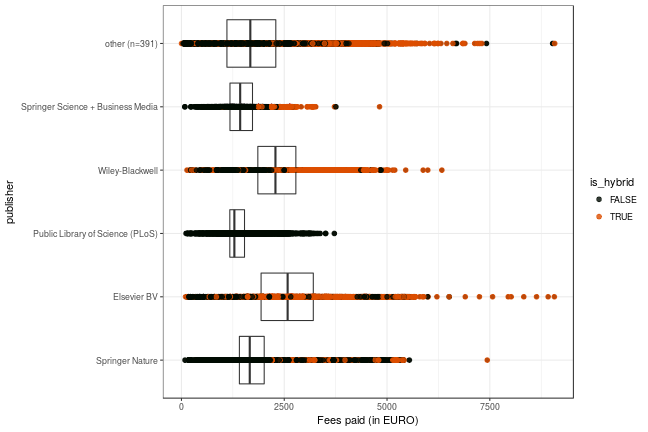
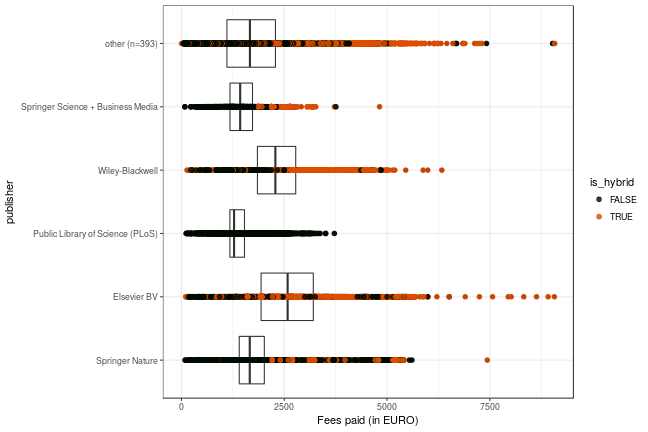
couperin part three

diff --git a/about.md b/about.md
@@ -137,16 +137,20 @@ The data content covers APCs as paid for by our central budget for the Max Planc
 
 - Chalmers University of Technology
 - Dalarna University College
+- University of Gothenburg
+- Borås University College
+- University College West
 - Karolinska Institutet
 - KTH Royal Institute of Technology
 - Linköping University
+- Linnaeus University
 - Luleå University of Technology
 - Lund University
-- Malmö University College
-- Stockholm University
+- Malmö University
+- Örebro University
 - Swedish University of Agricultural Sciences
+- Stockholm University
 - Umeå University
-- University of Gothenburg
 - Uppsala University
 
 ## Institutions from France
@@ -156,19 +160,20 @@ The [Couperin consortium](https://couperin.org) aggregates data on APC expenditu
 - Aix-Marseille Université
 - Université de Bordeaux
 - Université de Bourgogne
+- Centre national de la recherche scientifique (CNRS)
 - Hospices Civils de Lyon
 - Université Grenoble Alpes
 - Institut national de recherche en informatique et en automatique (INRIA)
 - Institut national de la santé et de la recherche médicale (INSERM)
-- Institut national polytechnique de Toulouse (INTP)
+- Institut national polytechnique de Toulouse (INPT)
 - Université Lille 1
 - Université Lille 2
+- Université de Lorraine
 - Université Nice-Sophia-Antipolis
 - Université de Poitiers
 - Université de Rennes 1
 - Université de Toulon
 - Université Pierre et Marie Curie (Paris VI)
-
 
 ## Participating Institutions from the United Kingdom:
 
@@ -247,13 +252,13 @@ Jisc Collections released data on APC payments made by UK higher education insti
 
 Information on both open access journal articles and open access publication of articles in toll-access journals ("hybrid") are provided.
 
-In total,  102 936 630 € for  54 290 articles were paid by the participating unviversities. Average  fee is 1 896.1 € and the median 1 697 €.
+In total,  103 974 244 € for  54 959 articles were paid by the participating unviversities. Average  fee is 1 891.9 € and the median 1 691 €.
 
 ### Open Access Journals
 
 
 
-At the moment, the dataset releases information on 31 923 articles in open access journals which charge publication fees. Total expenditure amounts to  47 421 887 €. Average  fee is 1 485.5 € and the median 1 410 €.
+At the moment, the dataset releases information on 32 504 articles in open access journals which charge publication fees. Total expenditure amounts to  48 270 968 €. Average  fee is 1 485.1 € and the median 1 408 €.
 
 View dataset on [GitHub](https://github.com/OpenAPC/openapc-de/blob/master/data/apc_de.csv).
 
@@ -261,7 +266,7 @@ View dataset on [GitHub](https://github.com/OpenAPC/openapc-de/blob/master/data/
 |                                                                | Articles| Fees paid in EURO| Mean Fee paid| Median|
 |:---------------------------------------------------------------|--------:|-----------------:|-------------:|------:|
 |Aberystwyth University                                          |        9|            18,176|         2,020|  1,569|
-|Aix-Marseille Université                                        |       63|            92,126|         1,462|  1,215|
+|Aix-Marseille Université                                        |       60|            85,791|         1,430|  1,215|
 |Akershus University Hospital                                    |       11|            15,680|         1,425|  1,290|
 |Aston University                                                |       24|            47,259|         1,969|  1,654|
 |Bamberg U                                                       |       50|            56,375|         1,127|  1,266|
@@ -275,6 +280,7 @@ View dataset on [GitHub](https://github.com/OpenAPC/openapc-de/blob/master/data/
 |Bremen U                                                        |      390|           552,016|         1,415|  1,345|
 |Cardiff University                                              |      169|           289,389|         1,712|  1,562|
 |Chalmers University of Technology                               |        6|             5,817|           970|  1,012|
+|CNRS                                                            |      568|           835,780|         1,471|  1,260|
 |Cranfield University                                            |       10|            14,348|         1,435|  1,530|
 |Dalarna University College                                      |       28|            39,181|         1,399|  1,667|
 |Dortmund TU                                                     |       56|            66,016|         1,179|  1,373|
@@ -284,10 +290,10 @@ View dataset on [GitHub](https://github.com/OpenAPC/openapc-de/blob/master/data/
 |Freiburg U                                                      |      623|           871,696|         1,399|  1,449|
 |Fridtjof Nansen Institute                                       |        4|             5,062|         1,265|  1,303|
 |FU Berlin                                                       |      294|           413,858|         1,408|  1,506|
-|FWF - Austrian Science Fund                                     |    1,389|         2,294,176|         1,652|  1,495|
+|FWF - Austrian Science Fund                                     |    1,391|         2,295,863|         1,651|  1,492|
 |FZJ - ZB                                                        |      397|           532,437|         1,341|  1,242|
 |GenØk - Centre for Biosafety                                    |        5|             5,295|         1,059|  1,109|
-|GFZ-Potsdam                                                     |      172|           225,908|         1,313|  1,224|
+|GFZ-Potsdam                                                     |      170|           224,765|         1,322|  1,231|
 |Giessen U                                                       |      415|           590,189|         1,422|  1,346|
 |GIGA                                                            |       NA|                NA|            NA|     NA|
 |Goettingen U                                                    |    1,086|         1,580,249|         1,455|  1,447|
@@ -303,14 +309,14 @@ View dataset on [GitHub](https://github.com/OpenAPC/openapc-de/blob/master/data/
 |INM - Leibniz-Institut für Neue Materialien                     |        5|             5,744|         1,149|  1,305|
 |Innlandet Hospital Trust                                        |        3|             5,174|         1,725|  1,917|
 |INRIA                                                           |       31|            46,138|         1,488|  1,288|
-|INSERM                                                          |      392|           644,693|         1,645|  1,298|
+|INSERM                                                          |      391|           643,505|         1,646|  1,300|
 |Institut national polytechnique de Toulouse                     |        3|             4,139|         1,380|  1,845|
 |Institute of Cancer Research                                    |       20|            43,133|         2,157|  1,673|
 |Institute of Marine Research                                    |       14|            20,153|         1,440|  1,404|
 |IPN                                                             |        4|             3,909|           977|    479|
 |IST Austria                                                     |       13|            30,578|         2,352|  1,632|
 |JGU Mainz                                                       |      318|           456,141|         1,434|  1,458|
-|Karolinska Institutet                                           |        7|             4,371|           624|    755|
+|Karolinska Institutet                                           |        8|             5,073|           634|    755|
 |Kassel U                                                        |       78|            85,210|         1,092|  1,136|
 |Keele University                                                |       19|            31,431|         1,654|  1,644|
 |King's College London                                           |      197|           398,725|         2,024|  1,588|
@@ -332,7 +338,7 @@ View dataset on [GitHub](https://github.com/OpenAPC/openapc-de/blob/master/data/
 |Milano U                                                        |      121|           185,356|         1,532|  1,495|
 |MLU Halle-Wittenberg                                            |       17|            36,874|         2,169|  2,142|
 |Molde University College                                        |        3|             1,876|           625|    584|
-|MPG                                                             |    3,675|         4,987,866|         1,357|  1,207|
+|MPG                                                             |    3,674|         4,987,088|         1,357|  1,207|
 |Muenchen LMU                                                    |      443|           594,905|         1,343|  1,404|
 |Münster U                                                       |      382|           468,717|         1,227|  1,200|
 |Nansen Environmental and Remote Sensing Center                  |        6|             5,298|           883|    775|
@@ -348,7 +354,7 @@ View dataset on [GitHub](https://github.com/OpenAPC/openapc-de/blob/master/data/
 |Norwegian University of Life Sciences                           |       53|            72,307|         1,364|  1,449|
 |Norwegian University of Science and Technology                  |      115|           162,119|         1,410|  1,420|
 |Oldenburg U                                                     |      177|           215,062|         1,215|  1,361|
-|OpenAIRE                                                        |      537|           778,991|         1,451|  1,413|
+|OpenAIRE                                                        |      536|           776,905|         1,449|  1,411|
 |Örebro University                                               |       64|            84,298|         1,317|  1,342|
 |Oslo and Akershus university college                            |       36|            45,728|         1,270|  1,252|
 |Oslo University Hospital                                        |      111|           149,777|         1,349|  1,392|
@@ -363,7 +369,7 @@ View dataset on [GitHub](https://github.com/OpenAPC/openapc-de/blob/master/data/
 |SINTEF                                                          |        3|             3,633|         1,211|  1,176|
 |Sørlandet Hospital Trust                                        |        5|             8,453|         1,691|  1,667|
 |St George's, University of London                               |       19|            36,284|         1,910|  1,862|
-|Stockholm University                                            |      273|           412,332|         1,510|  1,338|
+|Stockholm University                                            |      274|           413,066|         1,508|  1,336|
 |Stuttgart U                                                     |      210|           254,329|         1,211|  1,261|
 |Swansea University                                              |       36|            59,942|         1,665|  1,332|
 |Swedish University of Agricultural Sciences                     |      450|           595,056|         1,322|  1,328|
@@ -383,19 +389,20 @@ View dataset on [GitHub](https://github.com/OpenAPC/openapc-de/blob/master/data/
 |Tuebingen U                                                     |      594|           814,355|         1,371|  1,386|
 |UCL                                                             |    1,643|         2,695,082|         1,640|  1,534|
 |UFZ                                                             |       40|            42,186|         1,055|    979|
-|Ulm U                                                           |      191|           294,038|         1,539|  1,541|
+|Ulm U                                                           |      190|           293,342|         1,544|  1,545|
 |Umeå University                                                 |       10|            10,604|         1,060|    755|
 |Uni Research                                                    |       19|            28,070|         1,477|  1,474|
-|Universitat de Barcelona                                        |      465|           443,659|           954|    897|
-|Université de Bordeaux                                          |       19|            27,522|         1,449|  1,258|
+|Universitat de Barcelona                                        |      464|           443,269|           955|    899|
+|Université de Bordeaux                                          |       18|            25,745|         1,430|  1,258|
 |Université de Bourgogne                                         |        7|             9,568|         1,367|  1,285|
-|Université de Poitiers                                          |        3|             3,392|         1,131|  1,099|
+|Université de Lorraine                                          |       20|            24,914|         1,246|  1,128|
+|Université de Poitiers                                          |        2|             2,948|         1,474|  1,474|
 |Université de Rennes 1                                          |       20|            26,569|         1,328|  1,202|
 |Université de Toulon                                            |        2|             5,150|         2,575|  2,575|
 |Université Grenoble Alpes                                       |        9|            10,378|         1,153|  1,165|
 |Université Lille 1                                              |       11|            15,099|         1,373|  1,266|
 |Université Lille 2                                              |       21|            29,150|         1,388|  1,256|
-|Université Nice-Sophia-Antipolis                                |        2|             2,600|         1,300|  1,300|
+|Université Nice-Sophia-Antipolis                                |        1|             1,202|         1,202|  1,202|
 |Université Pierre et Marie Curie (Paris VI)                     |       32|            50,846|         1,589|  1,396|
 |University College of Southeast Norway                          |       19|            19,107|         1,006|    907|
 |University College West                                         |        6|             4,868|           811|    729|
@@ -414,7 +421,7 @@ View dataset on [GitHub](https://github.com/OpenAPC/openapc-de/blob/master/data/
 |University of Gothenburg                                        |      331|           490,458|         1,482|  1,406|
 |University of Huddersfield                                      |        3|             3,452|         1,151|  1,192|
 |University of Hull                                              |        5|             7,548|         1,510|  1,635|
-|University of Leicester                                         |       50|            82,629|         1,653|  1,652|
+|University of Leicester                                         |       51|            83,750|         1,642|  1,652|
 |University of Liverpool                                         |      262|           445,007|         1,698|  1,693|
 |University of Loughborough                                      |        7|             9,422|         1,346|  1,650|
 |University of Manchester                                        |      246|           479,435|         1,949|  1,666|
@@ -438,7 +445,7 @@ View dataset on [GitHub](https://github.com/OpenAPC/openapc-de/blob/master/data/
 |Vestfold Hospital Trust                                         |        4|             6,134|         1,533|  1,532|
 |Vestre Viken Hospital Trust                                     |        4|             5,796|         1,449|  1,555|
 |Virginia Tech                                                   |      153|           165,423|         1,081|  1,216|
-|Wellcome Trust                                                  |    1,015|         1,782,368|         1,756|  1,604|
+|Wellcome Trust                                                  |    1,016|         1,782,746|         1,755|  1,604|
 |Wuerzburg U                                                     |      562|           749,032|         1,333|  1,309|
 
 ### Hybrid articles
@@ -446,7 +453,7 @@ View dataset on [GitHub](https://github.com/OpenAPC/openapc-de/blob/master/data/
 
 
 In many toll-access journals some of the articles are open access after a fee has been paid. This model is often called "hybrid open access".
-The dataset covers 22 367 hybrid open access articles. Total expenditure amounts to  55 514 743 €. Average  fee is 2 482 € and the median 2 441 €.
+The dataset covers 22 455 hybrid open access articles. Total expenditure amounts to  55 703 276 €. Average  fee is 2 480.7 € and the median 2 441 €.
 
 The following institutions have contributed its expenditures for hybrid open access.
 
@@ -461,13 +468,14 @@ The following institutions have contributed its expenditures for hybrid open acc
 |Borås University College                    |        1|             1,950|         1,950|  1,950|
 |Cardiff University                          |      522|         1,302,192|         2,495|  2,555|
 |Chalmers University of Technology           |        7|            16,723|         2,389|  2,429|
+|CNRS                                        |       93|           191,785|         2,062|  2,200|
 |Cranfield University                        |       66|           186,639|         2,828|  2,901|
 |Dalarna University College                  |       12|            32,958|         2,746|  2,710|
 |Dortmund TU                                 |        1|             1,581|         1,581|  1,581|
 |Duisburg-Essen U                            |        9|            23,845|         2,649|  2,618|
 |Erlangen Nuernberg U                        |        1|             1,638|         1,638|  1,638|
 |FU Berlin                                   |        1|             1,500|         1,500|  1,500|
-|FWF - Austrian Science Fund                 |    3,775|         9,277,292|         2,458|  2,599|
+|FWF - Austrian Science Fund                 |    3,773|         9,275,605|         2,458|  2,599|
 |FZJ - ZB                                    |       78|           156,289|         2,004|  1,979|
 |GenØk - Centre for Biosafety                |        2|             3,650|         1,825|  1,825|
 |GFZ-Potsdam                                 |       10|            24,555|         2,455|  2,643|
@@ -484,7 +492,7 @@ The following institutions have contributed its expenditures for hybrid open acc
 |IPN                                         |       22|            53,603|         2,437|  2,558|
 |IST Austria                                 |        2|             6,499|         3,249|  3,249|
 |JGU Mainz                                   |        1|             1,792|         1,792|  1,792|
-|Karolinska Institutet                       |       25|            38,269|         1,531|  1,473|
+|Karolinska Institutet                       |       24|            37,567|         1,565|  1,774|
 |Keele University                            |       25|            65,045|         2,602|  2,644|
 |King's College London                       |      548|         1,482,684|         2,706|  2,641|
 |KIT                                         |        1|             2,000|         2,000|  2,000|
@@ -509,7 +517,7 @@ The following institutions have contributed its expenditures for hybrid open acc
 |Queen's University Belfast                  |       34|            86,290|         2,538|  2,495|
 |Royal Holloway                              |       34|            79,500|         2,338|  2,079|
 |St George's, University of London           |       23|            67,276|         2,925|  2,756|
-|Stockholm University                        |      300|           667,673|         2,226|  2,302|
+|Stockholm University                        |      299|           666,939|         2,231|  2,329|
 |Swansea University                          |      110|           273,581|         2,487|  2,576|
 |Swedish University of Agricultural Sciences |      220|           520,879|         2,368|  2,330|
 |Swiss National Science Foundation (SNSF)    |       58|           119,225|         2,056|  2,153|
@@ -521,6 +529,7 @@ The following institutions have contributed its expenditures for hybrid open acc
 |Umeå University                             |       23|            45,340|         1,971|  2,132|
 |Université de Bordeaux                      |        1|             2,709|         2,709|  2,709|
 |Université de Bourgogne                     |        1|             1,950|         1,950|  1,950|
+|Université de Lorraine                      |        1|             1,370|         1,370|  1,370|
 |Université de Poitiers                      |        2|             3,836|         1,918|  1,918|
 |Université de Rennes 1                      |        1|             1,100|         1,100|  1,100|
 |Université de Toulon                        |        1|             1,378|         1,378|  1,378|
@@ -542,7 +551,7 @@ The following institutions have contributed its expenditures for hybrid open acc
 |University of Gothenburg                    |      197|           479,499|         2,434|  2,523|
 |University of Huddersfield                  |       29|            36,984|         1,275|    968|
 |University of Hull                          |       10|            26,794|         2,679|  2,640|
-|University of Leicester                     |      110|           277,033|         2,518|  2,326|
+|University of Leicester                     |      109|           275,911|         2,531|  2,326|
 |University of Liverpool                     |      425|         1,043,327|         2,455|  2,467|
 |University of Loughborough                  |      153|           322,498|         2,108|  2,190|
 |University of Manchester                    |      836|         2,038,355|         2,438|  2,376|
@@ -561,7 +570,7 @@ The following institutions have contributed its expenditures for hybrid open acc
 |University of York                          |      148|           365,651|         2,471|  2,389|
 |Uppsala University                          |       26|            53,226|         2,047|  2,132|
 |Virginia Tech                               |       14|            20,480|         1,463|  1,256|
-|Wellcome Trust                              |    2,767|         7,117,449|         2,572|  2,565|
+|Wellcome Trust                              |    2,766|         7,117,071|         2,573|  2,565|
 
 ## Use of external sources
 

diff --git a/_posts/2018-07-17-couperin.md b/_posts/2018-07-17-couperin.md
@@ -1,0 +1,94 @@
+---
+layout:     post
+author:     Christoph Broschinski
+author_lnk: https://github.com/cbroschinski
+title:      Couperin.org provides APC data for two more institutions
+date:       2018-07-17 08:00:00
+summary:    
+categories: [general, openAPC]
+comments: true
+---
+
+
+
+
+The [Couperin consortium](https://couperin.org) collects data on APC expenditures from universities and other research institutions in France. A third batch of data has now been made available to OpenAPC, containing articles for 2 more institutions.
+
+Contact Persons for Couperin are [Valerie Larroque](mailto:valerie.larroque@couperin.org) and [Sandrine Malotaux](mailto:sandrine.malotaux@inp-toulouse.fr).
+
+## Cost data
+
+
+
+The new data set provided by Couperin covers publication fees for 682 articles published in 2015. Total expenditure amounts to 1 053 849€ and the average fee is 1 545€.
+
+The data originates from the CNRS and the Université de Lorraine (Have a look at the [treemaps site](https://treemaps.intact-project.org) for institutional details).
+
+
+
+|                                                              | Articles| Fees paid in EURO| Mean Fee paid|
+|:-------------------------------------------------------------|--------:|-----------------:|-------------:|
+|Springer Nature                                               |      166|            308856|          1861|
+|Public Library of Science (PLoS)                              |      140|            188148|          1344|
+|Frontiers Media SA                                            |       66|             79681|          1207|
+|Elsevier BV                                                   |       35|             70460|          2013|
+|Copernicus GmbH                                               |       31|             35725|          1152|
+|Oxford University Press (OUP)                                 |       30|             60826|          2028|
+|Wiley-Blackwell                                               |       25|             42008|          1680|
+|Optical Society of America (OSA)                              |       23|             37666|          1638|
+|MDPI AG                                                       |       20|             19396|           970|
+|American Society for Microbiology                             |       13|             12232|           941|
+|American Meteorological Society                               |       10|             25779|          2578|
+|Impact Journals, LLC                                          |       10|             25973|          2597|
+|Informa UK Limited                                            |       10|             11782|          1178|
+|IOP Publishing                                                |       10|             13608|          1361|
+|Hindawi Publishing Corporation                                |        8|              9438|          1180|
+|The Royal Society                                             |        8|             18405|          2301|
+|Scientific Research Publishing, Inc,                          |        7|              5745|           821|
+|Proceedings of the National Academy of Sciences               |        6|             10077|          1680|
+|AIP Publishing                                                |        4|              7186|          1796|
+|BioResources                                                  |        4|              3738|           934|
+|International Union of Crystallography (IUCr)                 |        4|              2065|           516|
+|OMICS Publishing Group                                        |        4|              4701|          1175|
+|Cold Spring Harbor Laboratory Press                           |        3|              8324|          2775|
+|EDP Sciences                                                  |        3|              1600|           533|
+|Genetics Society of America                                   |        3|              6780|          2260|
+|Institute of Electrical & Electronics Engineers (IEEE)        |        3|              4330|          1443|
+|Pensoft Publishers                                            |        3|              1034|           345|
+|The Company of Biologists                                     |        3|              5631|          1877|
+|American Association for the Advancement of Science (AAAS)    |        2|              2820|          1410|
+|American Society for Biochemistry & Molecular Biology (ASBMB) |        2|              4463|          2231|
+|IOS Press                                                     |        2|              2490|          1245|
+|Ivyspring International Publisher                             |        2|              1707|           853|
+|PeerJ                                                         |        2|              1059|           530|
+|Portland Press Ltd.                                           |        2|              1550|           775|
+|Bentham Science Publishers Ltd.                               |        1|               406|           406|
+|Blue Pen Journals                                             |        1|               228|           228|
+|Cosmos Scholars Publishing House                              |        1|               189|           189|
+|Dove Medical Press Ltd.                                       |        1|              1843|          1843|
+|e-Century Publishing Corporation                              |        1|              1242|          1242|
+|Excellent Publishers                                          |        1|               100|           100|
+|Herald Scholarly Open Access                                  |        1|              1562|          1562|
+|Horizon Research Publishing Co., Ltd.                         |        1|               178|           178|
+|Mary Ann Liebert Inc                                          |        1|              1456|          1456|
+|MIT Press - Journals                                          |        1|              1397|          1397|
+|MyJove Corporation                                            |        1|              3585|          3585|
+|Regional Euro-Asian Biological Invasions Centre Oy (REABIC)   |        1|               560|           560|
+|Resilience Alliance, Inc.                                     |        1|              1221|          1221|
+|Schweizerbart                                                 |        1|              1025|          1025|
+|Scientific Societies                                          |        1|               989|           989|
+|Society for Neuroscience                                      |        1|              1372|          1372|
+|SPIE-Intl Soc Optical Eng                                     |        1|               715|           715|
+|Walter de Gruyter GmbH                                        |        1|               500|           500|
+
+## Overview
+
+A detailed analysis of the contributed data provides the following overview:
+
+### Fees paid per publisher (in EURO)
+
+![plot of chunk tree_couperin_2018_07_17_full](/figure/tree_couperin_2018_07_17_full-1.png)
+
+###  Average costs per publisher (in EURO)
+
+![plot of chunk box_couperin_2018_07_17_publisher_full](/figure/box_couperin_2018_07_17_publisher_full-1.png)
